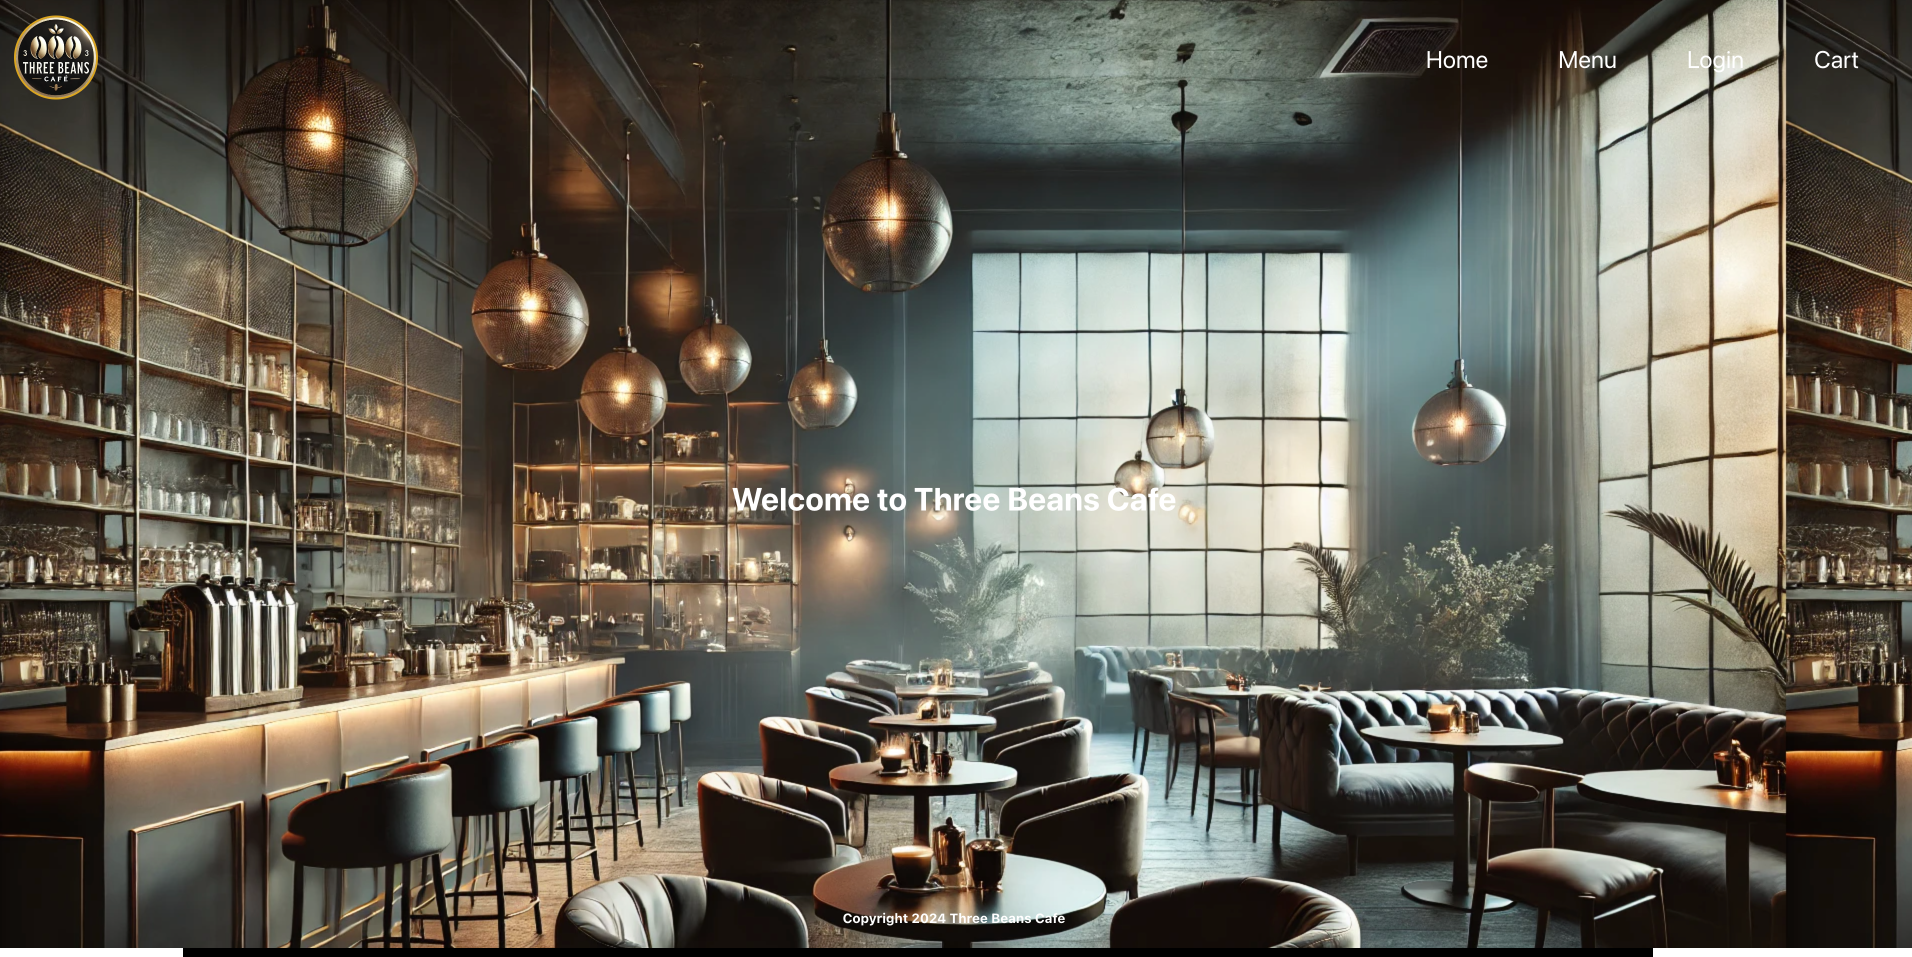
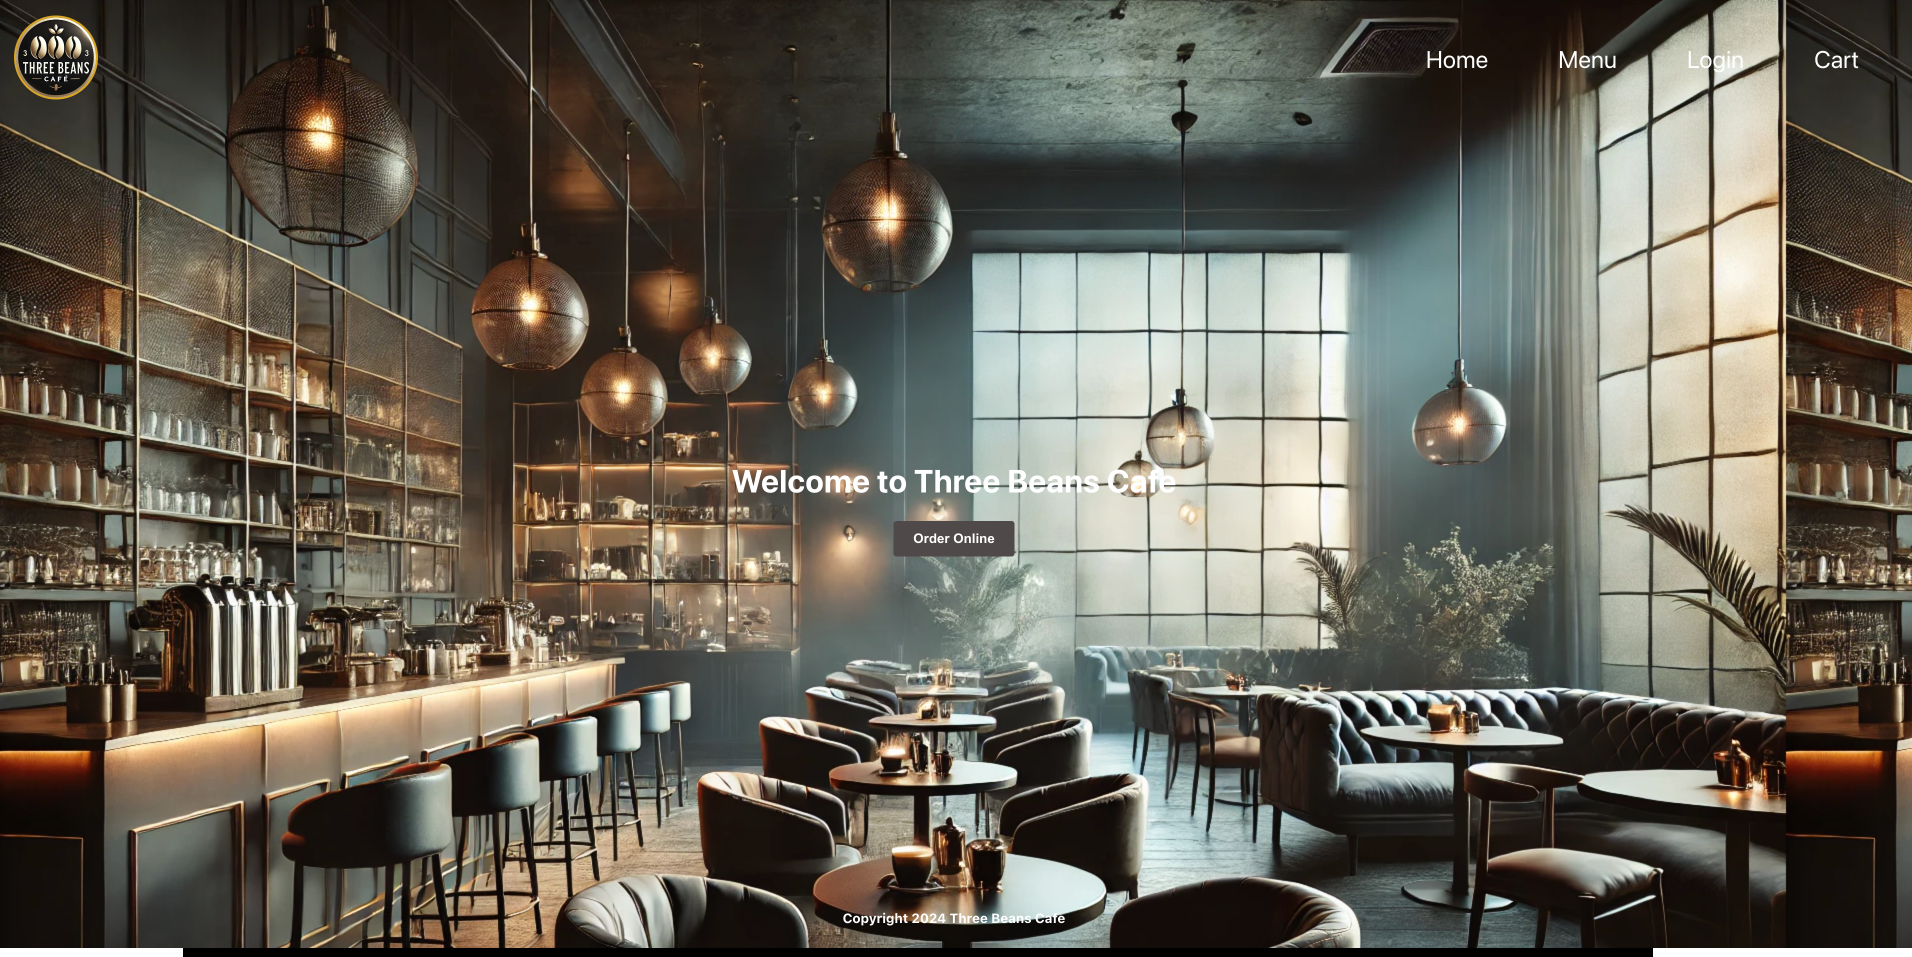
feat: added a button for order online in homepage

Changed region(s): [[0.3703, 0.4848, 0.6172, 0.6061]]

diff --git a/src/pages/HomePage.jsx b/src/pages/HomePage.jsx
@@ -1,5 +1,6 @@
-
 import "../styles/HomePage.css";
+import { NavLink } from "react-router-dom";
+
 
 export default function HomePage() {
 
@@ -7,6 +8,10 @@ export default function HomePage() {
     return(
         <div id="homeContainer">
             <h1 id="homeTitle"> Welcome to Three Beans Cafe</h1>
+            <NavLink to={"/menu"}>
+                <button className="button">Order Online</button>
+            </NavLink>
+            
         </div>
     )
 }

diff --git a/src/styles/HomePage.css b/src/styles/HomePage.css
@@ -11,5 +11,23 @@
     font-weight:bolder;
 
 
+    
+
 }
 
+.button{
+    padding: 10px 20px;
+    background-color: rgb(78, 73, 73);
+    color: white;
+    border: none;
+    border-radius: 3px;
+    cursor: pointer;
+    font-weight: bold;
+    transition:  0.3s;
+}
+
+.button:hover{
+    background-color: rgb(125, 117, 117);
+    font-weight:bolder ;
+    transition:  0.3s;
+}
